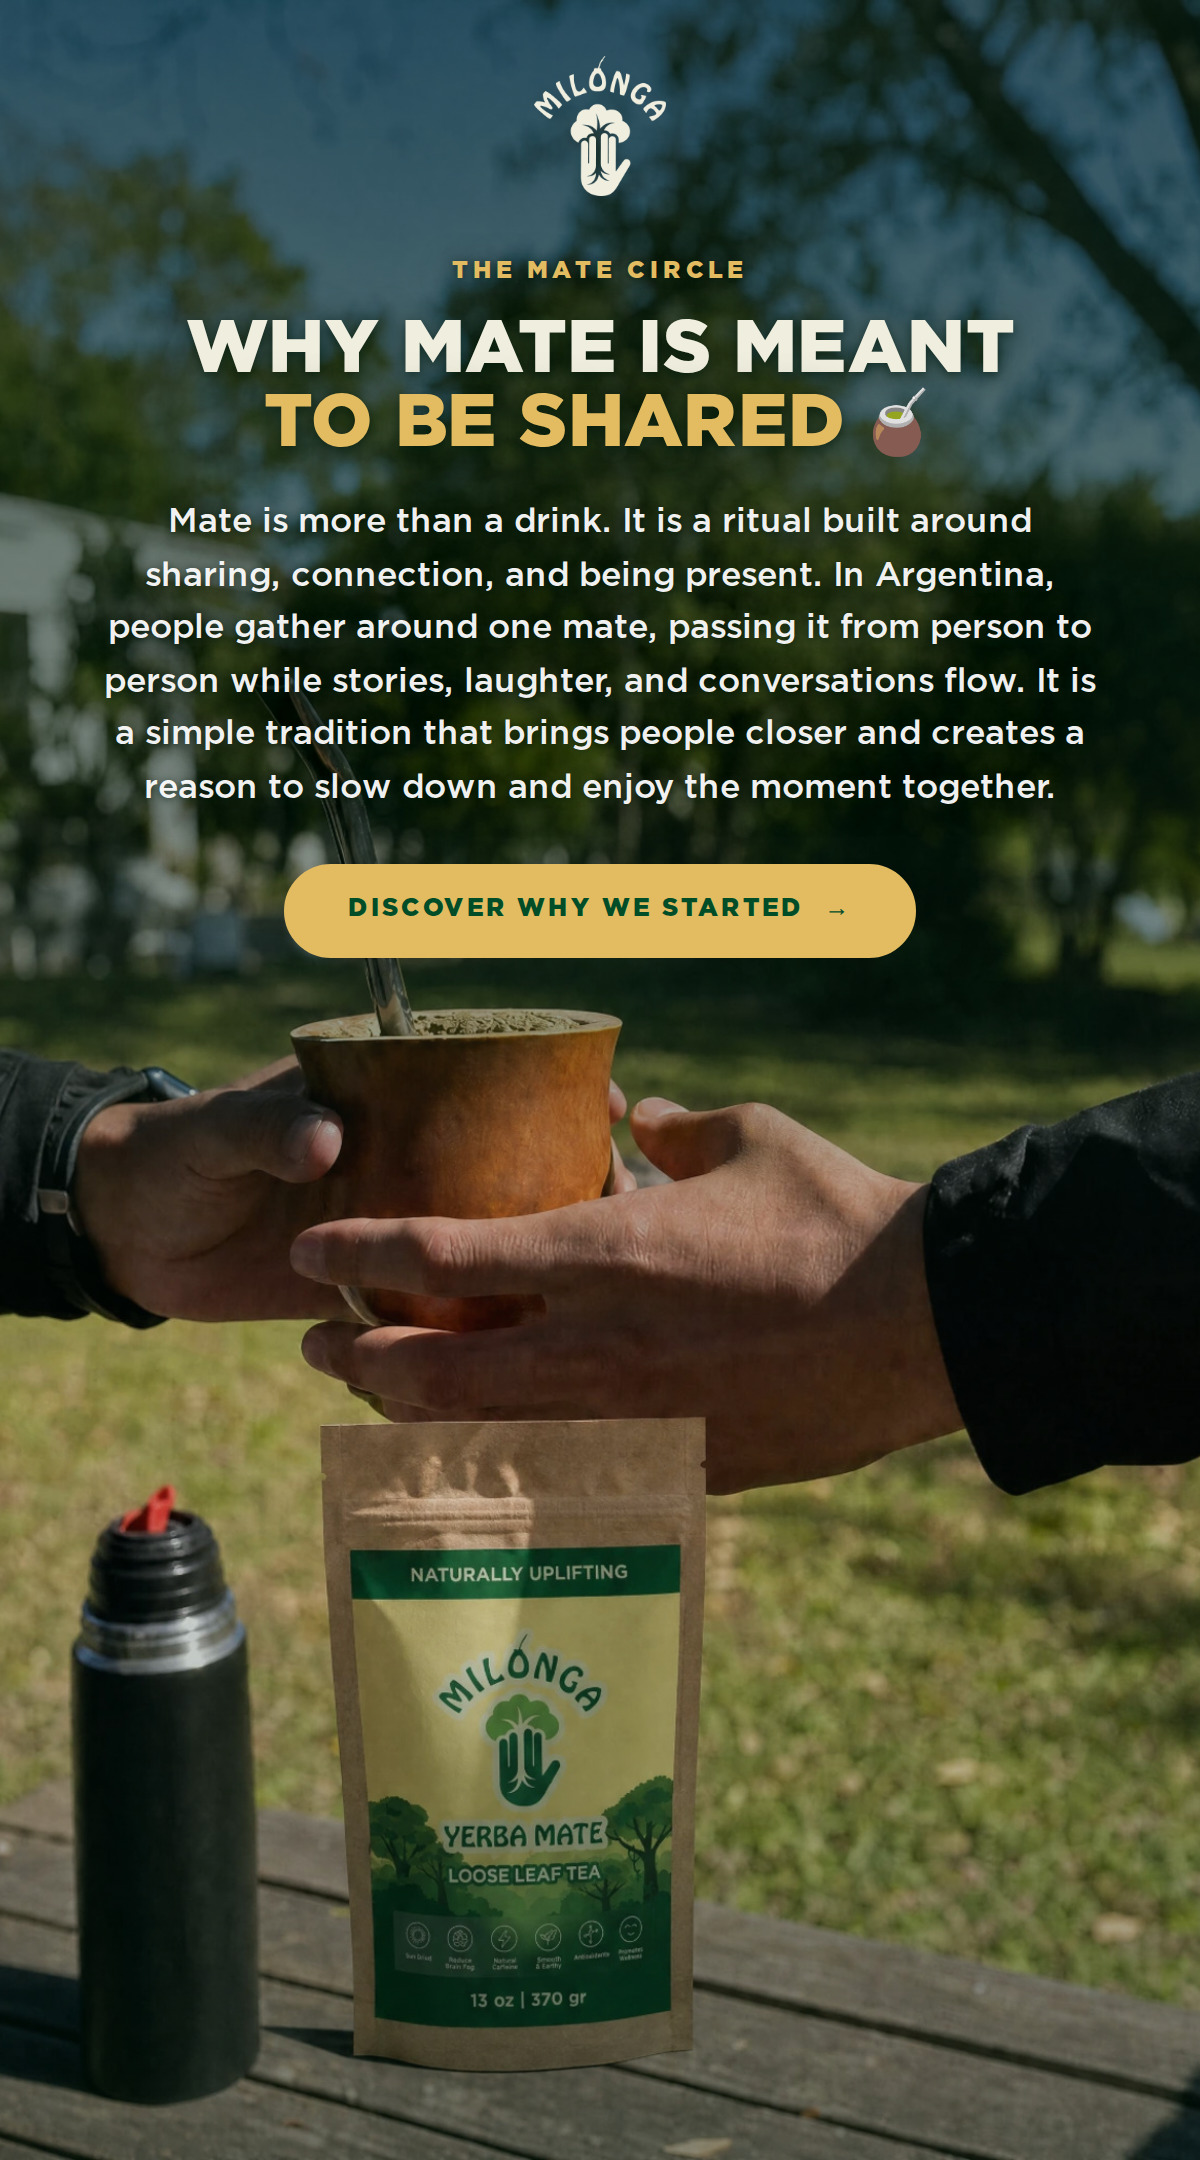
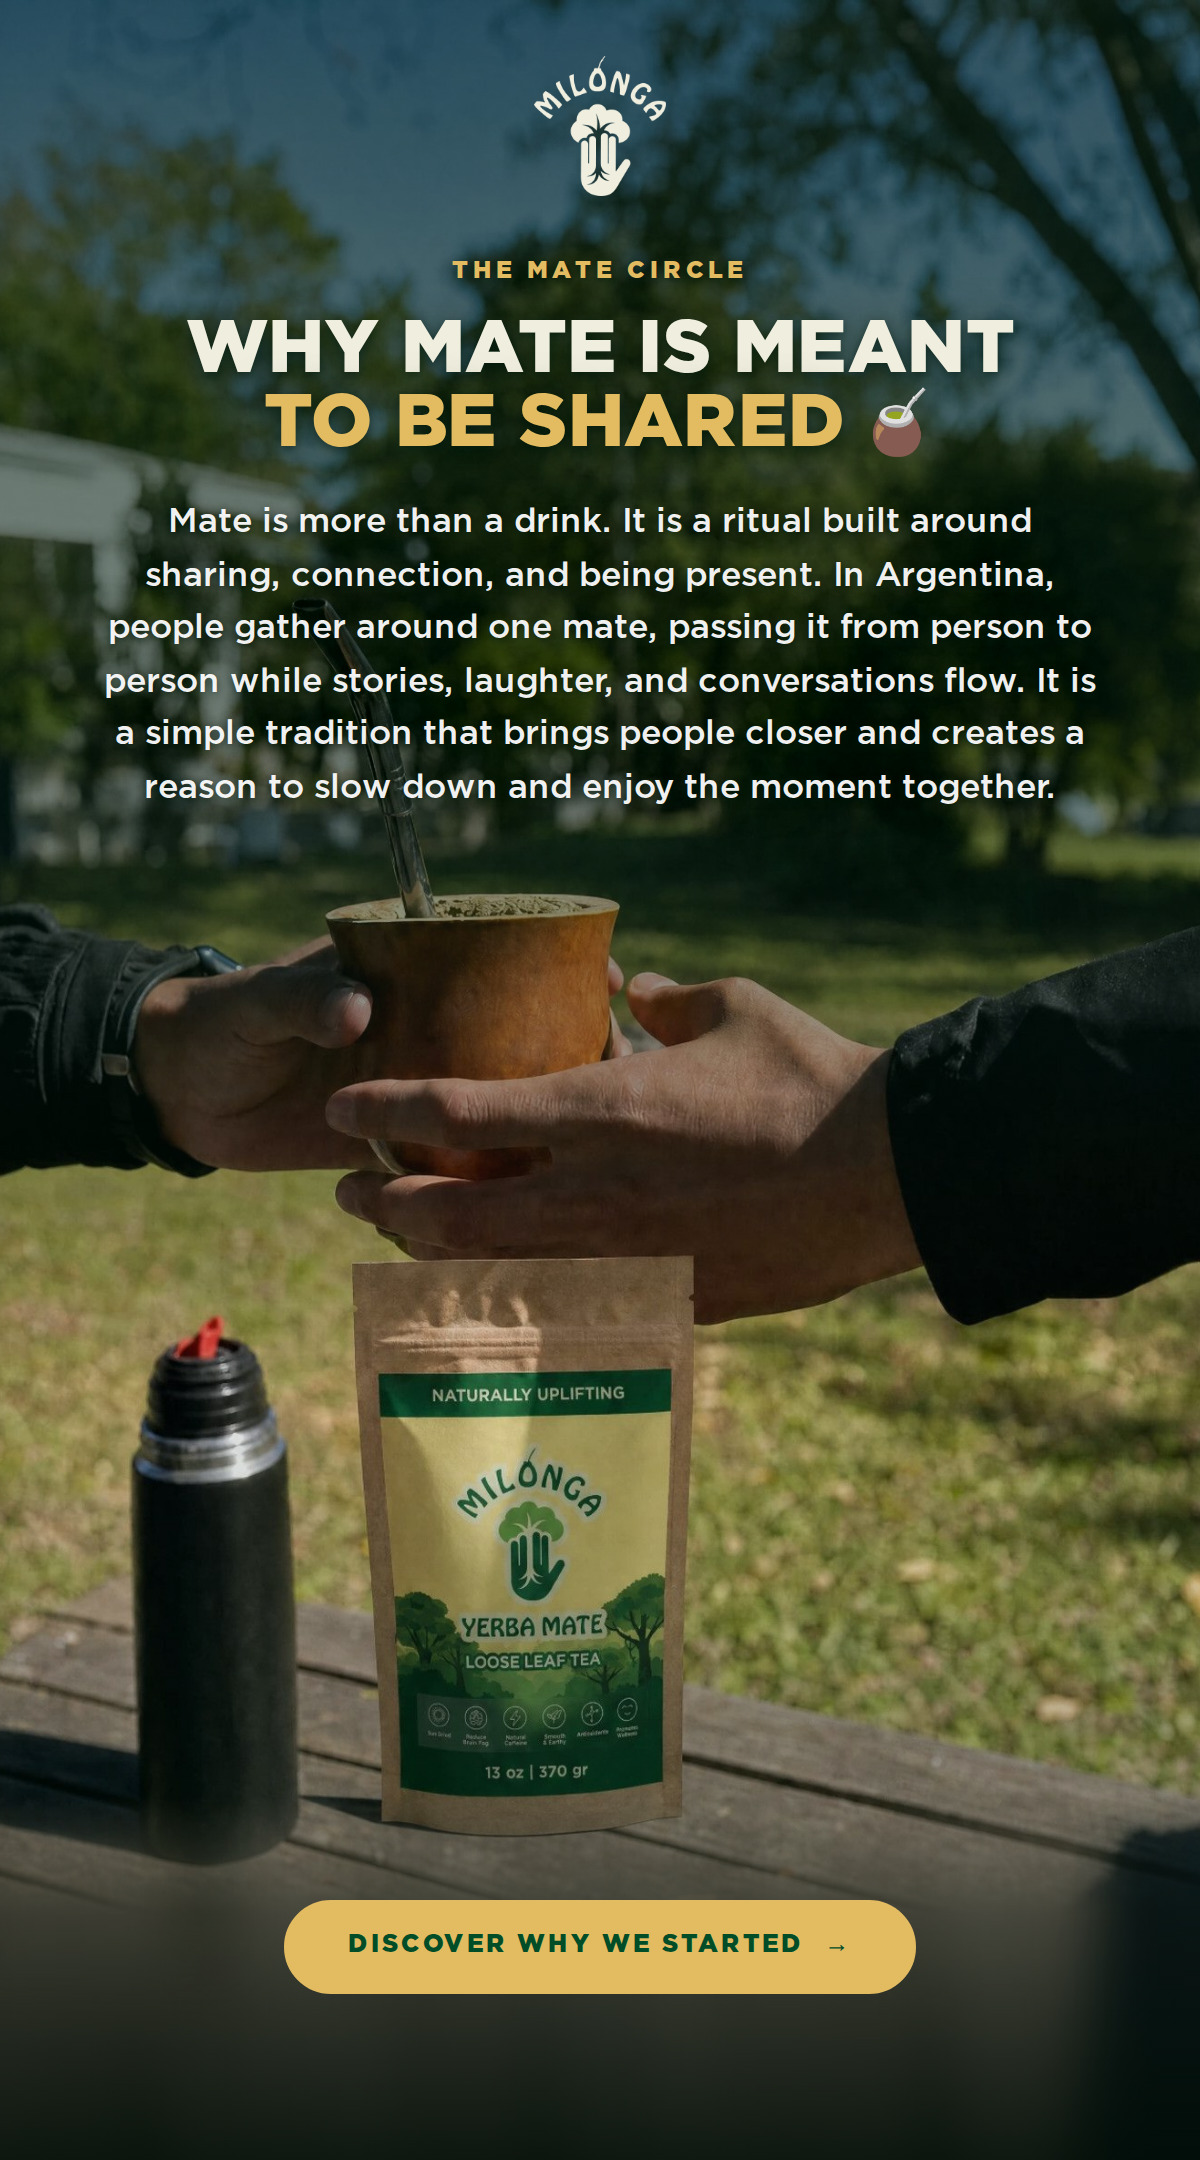
Drop section 1's CTA to the foot; give section 3 a grown copy band
SECTION 1 — the CTA moves to the bottom of the section, level with section 2's
(167px and 161px clear below them respectively).

The photograph could not hold it there: the pouch ran to within a few pixels
of the bottom edge, and raising the ratio does not help, because with a frame
taller than the art object-fit crops WIDTH — every vertical fraction is fixed,
so the pack sits at the same place in the frame whatever ratio is set. The
only way to open space below it is to give the picture more picture.

So the art is a version whose picnic table is extended downward. Mirroring was
tried first and thrown away — the plank chevron reflects into an obvious arrow
and the pouch's spec line comes back readable upside down. The version kept
extends with SHADOW instead of detail: the real bottom rows blurred until only
their left-to-right colour survives, stretched, and fallen to near black, with
the join feathered across 130px so the sharp table dissolves into it. The near
edge of a table in shade looks like this anyway, and there is no detail left to
give the join away.

SECTION 3 — the copy comes off the picture entirely and sits centred in a band
grown off the still life's own top edge, by the same method. A flat fill would
have seamed: that top edge is not one colour, it runs darker at the corners
than in the middle, and stretching the blurred real rows keeps that.

This is what makes the whole composition visible at full width — both side
[…]

diff --git a/email-ds/emails/mate-ritual.jsx b/email-ds/emails/mate-ritual.jsx
@@ -9,9 +9,9 @@ const M = window.MilongaEmailDS;
 const h = React.createElement;
 
 const IMG = {
-  passed: '../public/product/mate-passed.jpg',
+  passed: '../public/product/mate-passed-tall.jpg',
   circle: '../public/product/mate-circle.jpg',
-  family: '../public/product/milonga-family.jpg',
+  family: '../public/product/milonga-family-tall.jpg',
 };
 
 function MateRitual() {
@@ -34,19 +34,17 @@ function MateRitual() {
       ],
       // One paragraph instead of two, so the frame comes down with it — leaving
       // the old 1.72 would open a dead gap between the copy and the hands.
-      // The button goes back ON the picture, so the frame has to make room for
-      // it. Raising the ratio is what does that: the copy block's height is
-      // fixed and anchored at the top, so a taller frame pushes the gourd and
-      // the hands further down in absolute terms and opens a clear gap between
-      // the last line of copy and the top of the gourd. The measure goes wide
-      // at the same time, which saves the copy a line.
+      // The CTA sits at the foot of the section, level with section 2's.
+      // The photograph had no room for it — the pouch ran to within a few
+      // pixels of the bottom edge — so the art is the version whose picnic
+      // table is extended downward into shadow, which is where the pill sits.
       ratio: 1.80,
       focus: 'center 50%',
       size: 37,
       top: 28,
       measure: 500,
       cta: { label: 'Discover why we started', href: '#about', arrow: true },
-      at: '40%',
+      at: '88%',
     }),
 
     // ── 2 · WHAT IT'S REALLY FOR ──────────────────────────────────────────
@@ -95,15 +93,16 @@ function MateRitual() {
         'We keep what makes mate special — its natural energy, connection, and culture — and bring it into innovative products made for modern moments. From sparkling yerba mate to our Mate Latte, Milonga is a new way to experience an old tradition.',
       ],
       cta: { label: 'Explore Milonga', href: '#', arrow: true },
-      at: '47%',
-      ratio: 1.84,
+      // The copy is centred in the band grown off the top of the still life,
+      // so nothing sits on the picture and the whole composition — both edges,
+      // all three products — is visible at full width, uncropped. The button
+      // drops into the one place the photographer left empty, the clear middle
+      // between the pouch and the can.
+      at: '62%',
+      ratio: 2.563,
       size: 37,
-      top: 110,
-      measure: 380,
-      // The still life stacks its products down the right — pouch high, can
-      // low — so the copy space it left is on the LEFT. Centred type ran
-      // straight across the pack; this slides the whole column into the gap.
-      padRight: 175,
+      top: 86,
+      measure: 430,
       // The ground is already near-black green, so the scrim only has to lift
       // the type off the leaves — not darken a picture that is already dark.
       scrim: 0.45,
